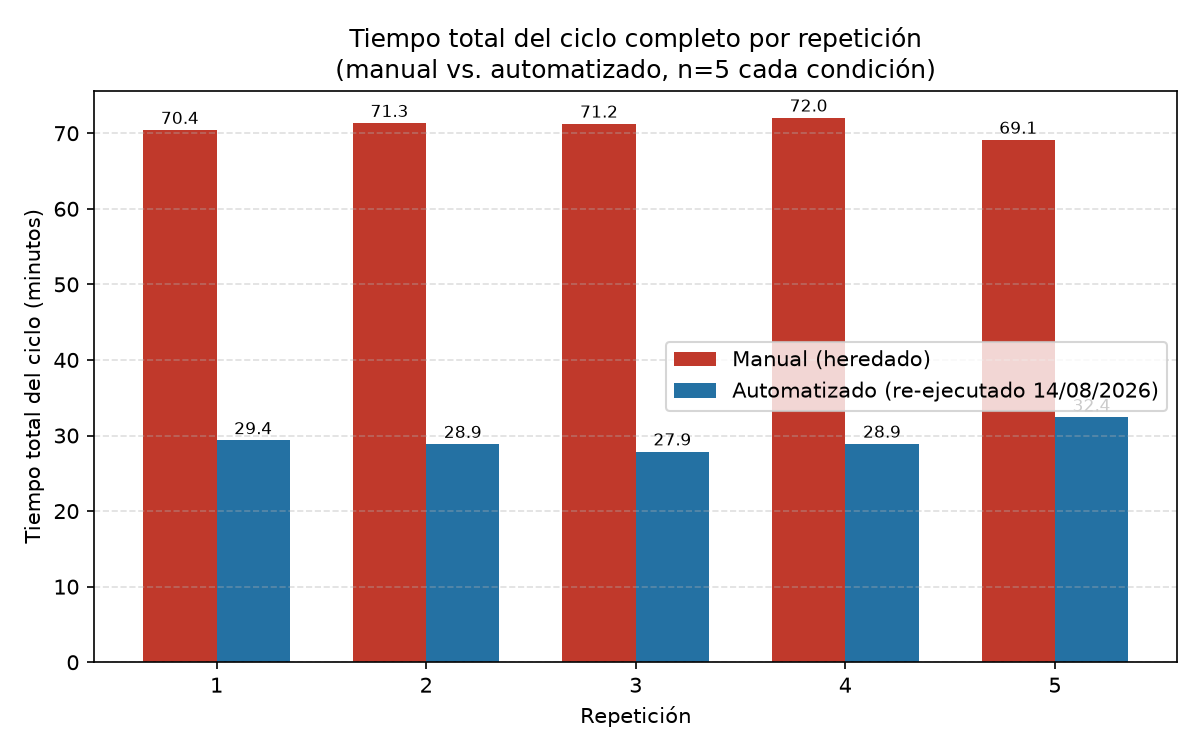
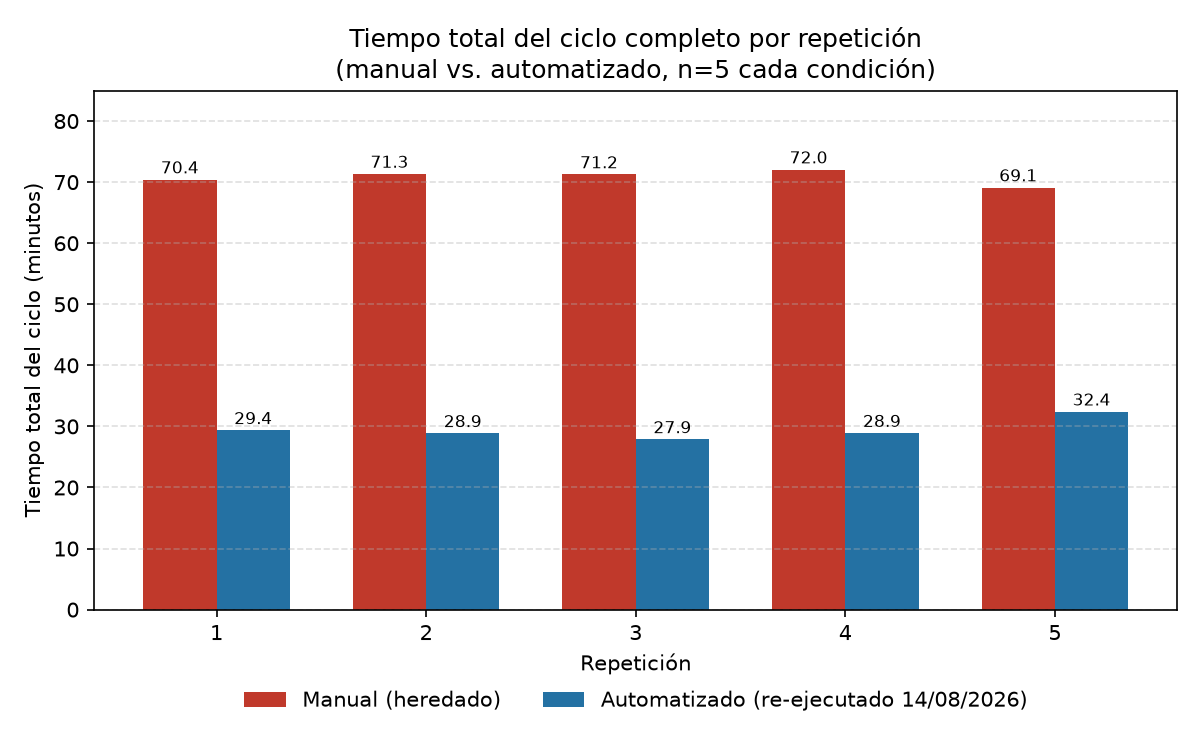
fix: corrige superposicion de texto y flechas en las figuras generadas
Etiquetas con fondo blanco despegadas de lineas/bordes, leyenda movida
fuera del area de barras, titulo del heatmap ya no choca con la barra
de color, diagrama de flujo recortado sin espacio en blanco sobrante.

diff --git a/docs/figures/gen_fig1_arquitectura.py b/docs/figures/gen_fig1_arquitectura.py
@@ -5,9 +5,9 @@ matplotlib.use('Agg')
 import matplotlib.pyplot as plt
 from matplotlib.patches import FancyBboxPatch, FancyArrowPatch
 
-fig, ax = plt.subplots(figsize=(9, 7))
-ax.set_xlim(0, 12)
-ax.set_ylim(0, 10)
+fig, ax = plt.subplots(figsize=(9, 7.5))
+ax.set_xlim(0, 13)
+ax.set_ylim(0, 10.2)
 ax.axis('off')
 
 def box(x, y, w, h, text, fc='#dbe9f6', ec='#2471a3', fontsize=9):
@@ -16,12 +16,13 @@ def box(x, y, w, h, text, fc='#dbe9f6', ec='#2471a3', fontsize=9):
     ax.text(x + w/2, y + h/2, text, ha='center', va='center', fontsize=fontsize)
     return b
 
-def arrow(p1, p2, text=None, offset=(0, 0.15), fc='#333333'):
+def arrow(p1, p2, fc='#333333'):
     a = FancyArrowPatch(p1, p2, arrowstyle='-|>', mutation_scale=13, color=fc, linewidth=1.2)
     ax.add_patch(a)
-    if text:
-        mx, my = (p1[0]+p2[0])/2, (p1[1]+p2[1])/2
-        ax.text(mx + offset[0], my + offset[1], text, fontsize=7.5, color='#333333', ha='center')
+
+def label(pos, text, ha='center'):
+    ax.text(pos[0], pos[1], text, fontsize=7.3, color='#333333', ha=ha, va='center',
+             bbox=dict(boxstyle='round,pad=0.2', fc='white', ec='#999999', alpha=0.9))
 
 # Capa 1: contenedor n8n personalizado
 box(0.4, 6.6, 4.6, 2.6,
@@ -33,23 +34,28 @@ box(6.9, 5.8, 4.7, 3.4,
     "Pila Greenbone Community Edition\n(17 servicios Docker Compose)\n\ngvmd  ·  ospd-openvas  ·  notus\npg-gvm (PostgreSQL)  ·  redis-server\nvulnerability-tests  ·  configure-openvas",
     fc='#fdebd0', ec='#b9770e', fontsize=8)
 
-# Socket Unix GMP
-arrow((5.0, 8.0), (6.9, 8.0), "GMP sobre socket Unix\n(gvmd_socket_vol)")
+# Socket Unix GMP (etiqueta bien despegada de la flecha, con fondo blanco)
+arrow((5.0, 8.6), (6.9, 8.6))
+label((5.95, 9.0), "GMP sobre socket Unix\n(gvmd_socket_vol)")
 
 # Red lab-net y objetivos (desplazada a la derecha, bajo Greenbone)
 box(5.4, 3.2, 4.6, 1.6,
     "Red Docker 'lab-net'\n12 activos objetivo (lab-targets)\nSSH, FTP, SMB, HTTP, MySQL, SNMP, etc.",
     fc='#eaf2e3', ec='#2e7d32', fontsize=8)
 
-arrow((3.5, 6.6), (5.9, 4.8), "Nmap\n(descubrimiento + puertos)")
-arrow((9.0, 5.8), (8.4, 4.8), "OpenVAS\n(análisis de vulnerabilidades)")
+arrow((3.5, 6.6), (5.9, 4.8))
+label((1.9, 5.7), "Nmap\n(descubrimiento y puertos)", ha='center')
+
+arrow((9.0, 5.8), (8.4, 4.8))
+label((11.0, 5.35), "OpenVAS\n(análisis de\nvulnerabilidades)", ha='left')
 
 # Notificaciones (a la izquierda, sin cruzar la red lab-net)
 box(0.4, 0.5, 2.4, 1.6, "Telegram\n(bot API)", fc='#f5e0f5', ec='#8e44ad', fontsize=8.3)
 box(3.1, 0.5, 2.4, 1.6, "Mailpit\n(SMTP local)", fc='#f5e0f5', ec='#8e44ad', fontsize=8.3)
 
-arrow((1.6, 6.6), (1.6, 2.1), "resultados", offset=(-1.0, 0))
-arrow((4.3, 6.6), (4.3, 2.1), "resultados", offset=(1.0, 0))
+arrow((1.6, 6.6), (1.6, 2.1))
+arrow((4.3, 6.6), (4.3, 2.1))
+label((2.95, 4.35), "resultados\n(Telegram + Mailpit)")
 
 ax.set_title("Arquitectura de despliegue de dos capas\n(4.1 — elaboración propia a partir de docker-compose.yml)", fontsize=11)
 

diff --git a/docs/figures/gen_fig_algoritmo.py b/docs/figures/gen_fig_algoritmo.py
@@ -6,9 +6,9 @@ import matplotlib.pyplot as plt
 from matplotlib.patches import FancyBboxPatch, FancyArrowPatch, Polygon
 from matplotlib.path import Path
 
-fig, ax = plt.subplots(figsize=(7, 9))
+fig, ax = plt.subplots(figsize=(7, 6.2))
 ax.set_xlim(0, 10)
-ax.set_ylim(0, 15)
+ax.set_ylim(2.8, 15)
 ax.axis('off')
 
 def box(x, y, w, h, text, fc='#dbe9f6', fontsize=9.5):
@@ -45,7 +45,7 @@ arrow(bot2, (5, 10))
 
 # Rama Critico
 box(7.2, 8.6, 2.4, 1.0, "Crítico", fc='#f5b7b1')
-arrow((5.8, 9.2), (7.2, 9.1), "sí")
+arrow((5.8, 9.2), (7.15, 9.1), "sí", offset=(0, 0.28))
 
 # Decision 2 (si no)
 diamond(5, 6.6, 3.6, 1.6, "score > 10 ?")
@@ -53,7 +53,7 @@ arrow((5, 8.4), (5, 7.4), "no")
 
 # Rama Alto
 box(7.2, 6.0, 2.4, 1.0, "Alto", fc='#fad7a0')
-arrow((5.8, 6.6), (7.2, 6.5), "sí")
+arrow((5.8, 6.6), (7.15, 6.5), "sí", offset=(0, 0.28))
 
 # Rama Normal
 box(2.6, 3.8, 2.4, 1.0, "Normal", fc='#a9dfbf')

diff --git a/docs/figures/gen_fig_tiempos.py b/docs/figures/gen_fig_tiempos.py
@@ -24,7 +24,8 @@ ax.set_xlabel('Repetición')
 ax.set_ylabel('Tiempo total del ciclo (minutos)')
 ax.set_title('Tiempo total del ciclo completo por repetición\n(manual vs. automatizado, n=5 cada condición)')
 ax.set_xticks(reps)
-ax.legend()
+ax.set_ylim(0, 85)
+ax.legend(loc='upper center', bbox_to_anchor=(0.5, -0.12), ncol=2, frameon=False)
 ax.grid(axis='y', linestyle='--', alpha=0.4)
 
 for bars in (bars1, bars2):

diff --git a/docs/figures/gen_fig_confusion.py b/docs/figures/gen_fig_confusion.py
@@ -12,7 +12,7 @@ matrix = np.array([
     [0, 4, 11],
 ])
 
-fig, ax = plt.subplots(figsize=(5.5, 5))
+fig, ax = plt.subplots(figsize=(6.5, 5))
 im = ax.imshow(matrix, cmap='Blues')
 
 ax.set_xticks(range(3))
